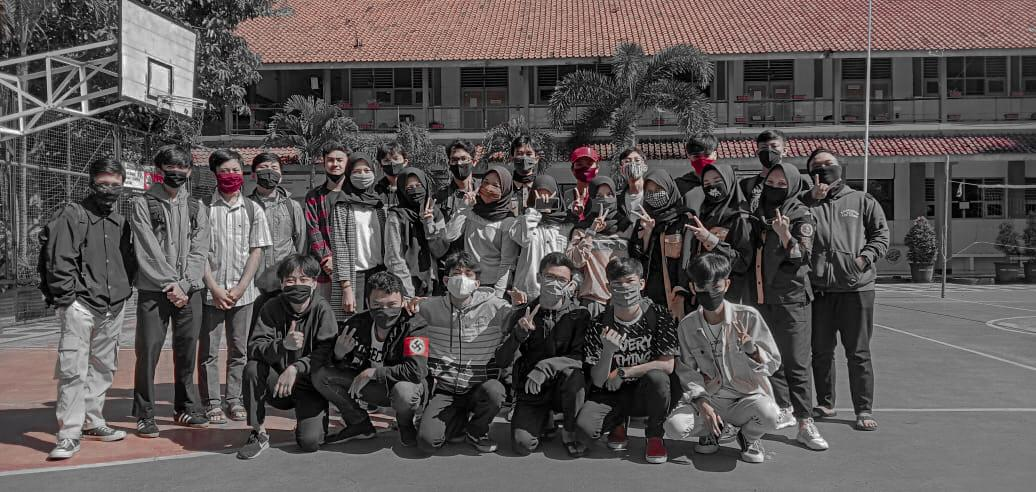
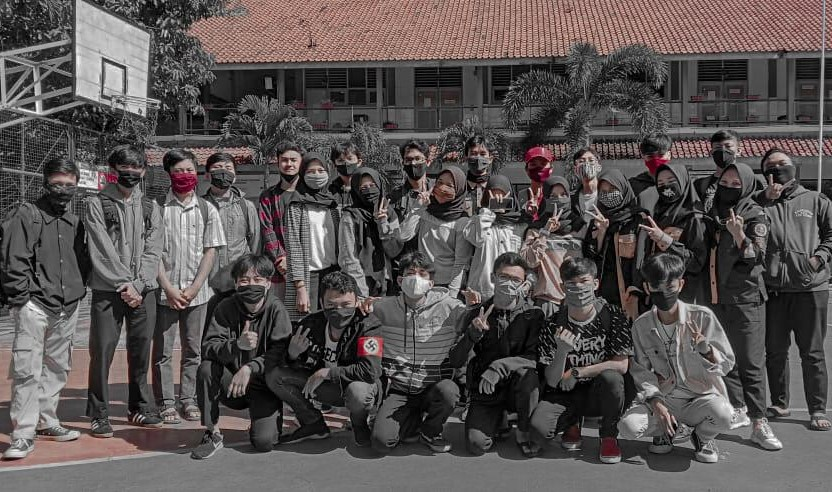
update

diff --git a/index.html b/index.html
@@ -206,7 +206,7 @@
 
                 <div class="work__container bd-grid">
                     <div class="work__img skull">
-                        <img src="assets/img/gallery1.jpg" alt="">
+                        <img src="assets/img/gallery1.jpg" height="250px" alt="">
                     </div>
                     <div class="work__img">
                         <img src="assets/img/gallery2.jpeg" alt="">
